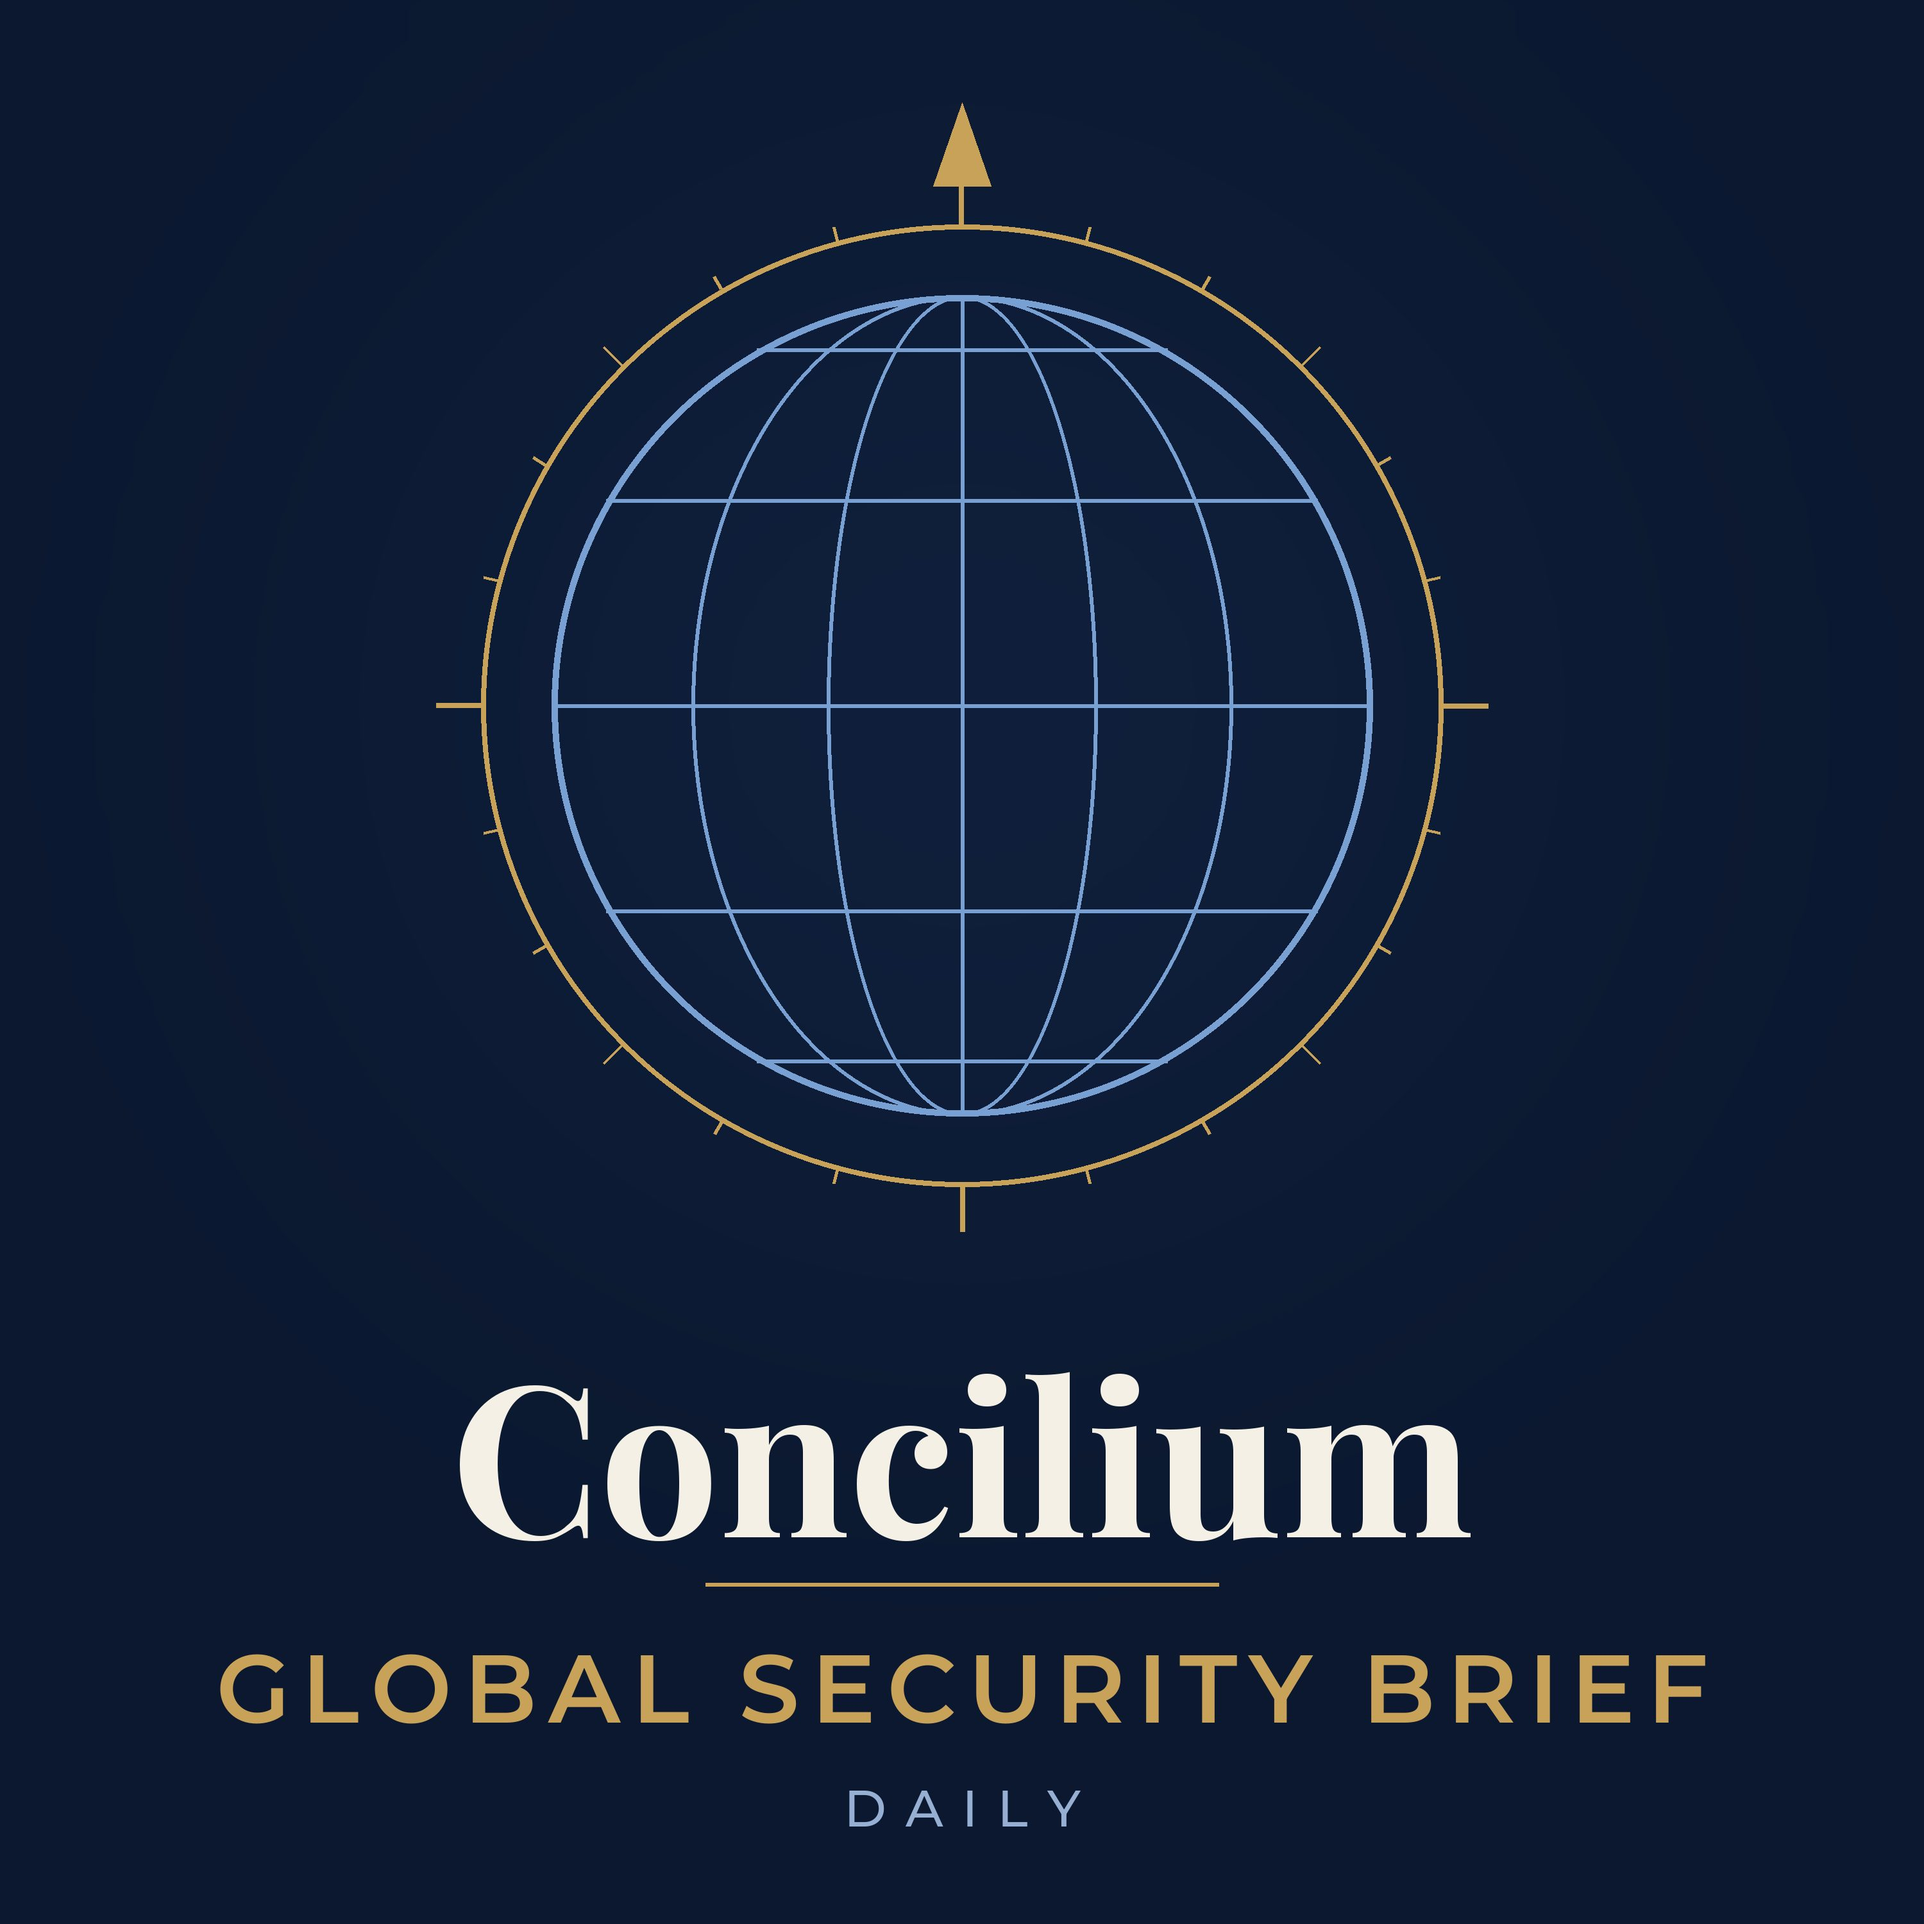
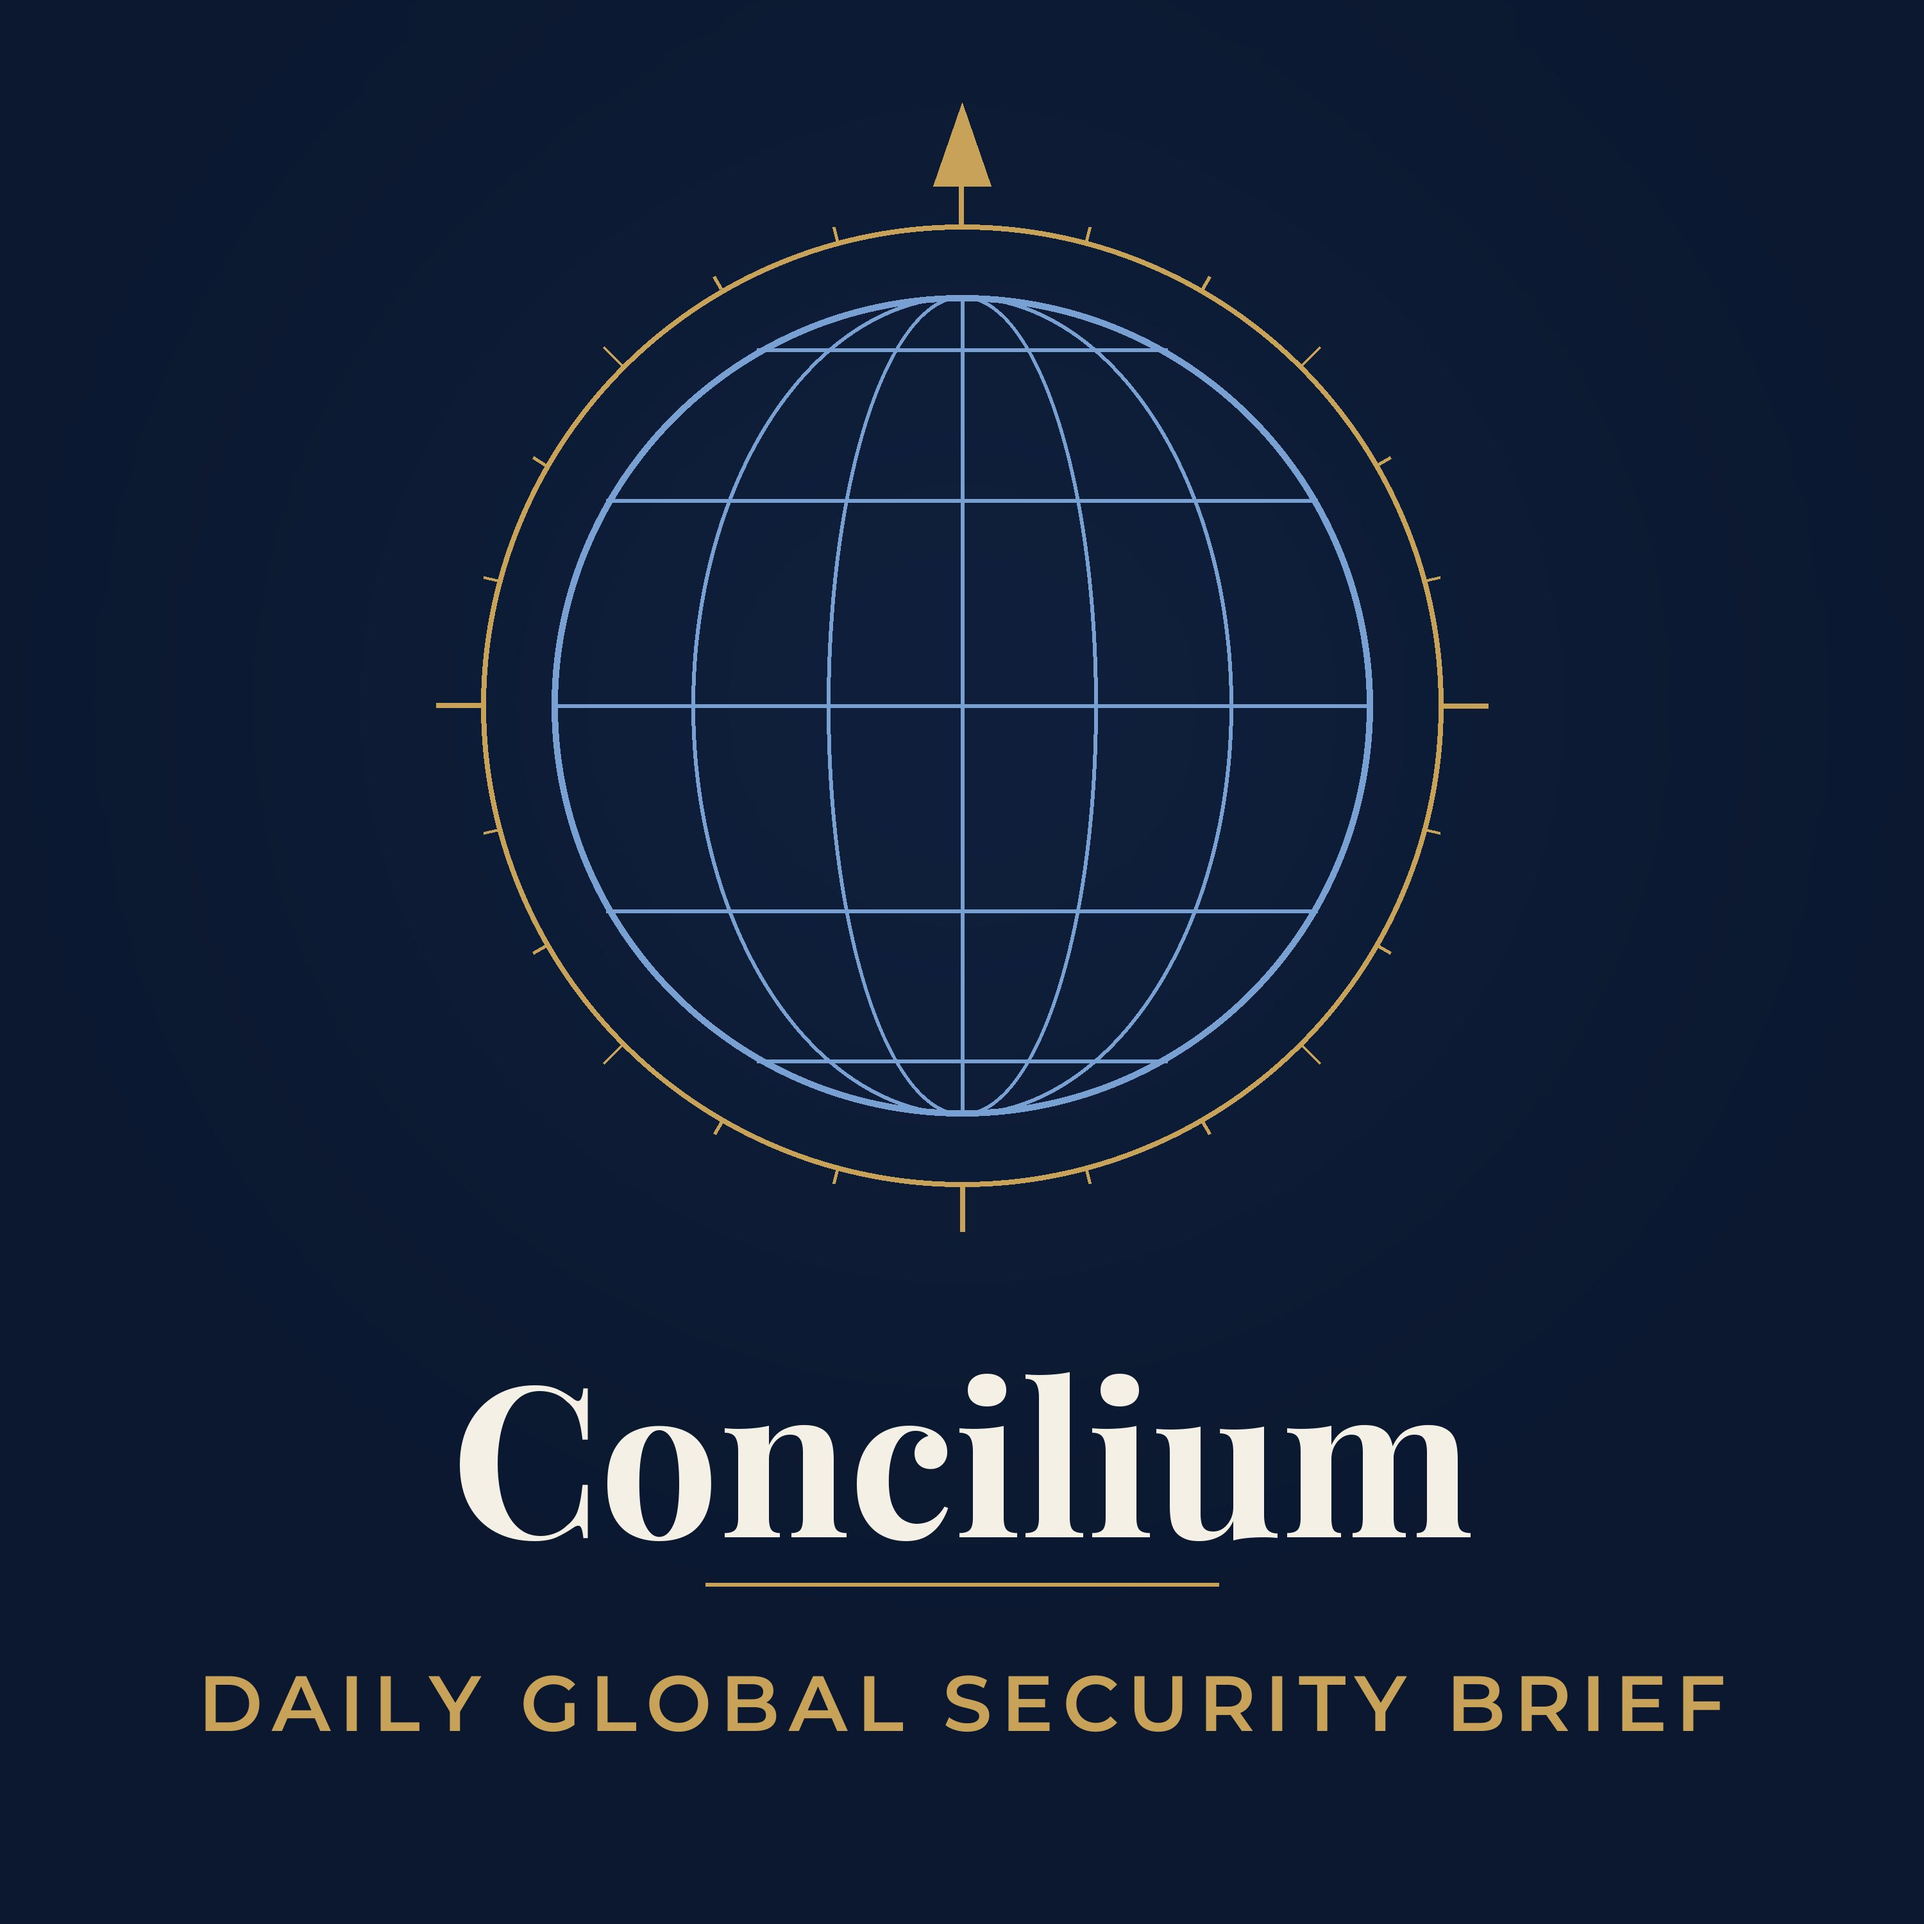
Rename show to Concilium Daily Global Security Brief; new cover

Changed region(s): [[0.093, 0.837, 0.899, 0.899], [0.434, 0.93, 0.527, 0.961]]

diff --git a/index.html b/index.html
@@ -1,12 +1,12 @@
 <!DOCTYPE html>
 <html lang="en"><head><meta charset="utf-8"><meta name="viewport" content="width=device-width, initial-scale=1">
-<title>Concilium Global Security Brief</title>
-<link rel="alternate" type="application/rss+xml" title="Concilium Global Security Brief" href="feed.xml">
+<title>Concilium Daily Global Security Brief</title>
+<link rel="alternate" type="application/rss+xml" title="Concilium Daily Global Security Brief" href="feed.xml">
 <style>body{font-family:system-ui,-apple-system,Segoe UI,Roboto,sans-serif;max-width:720px;margin:2rem auto;padding:0 1rem;color:#1b2333;line-height:1.55}
 img{width:240px;height:240px;border-radius:12px}h1{color:#0b1830}a{color:#1f4f8f}</style></head>
 <body>
-  <img src="cover.jpg" alt="Concilium Global Security Brief cover art">
-  <h1>Concilium Global Security Brief</h1>
+  <img src="cover.jpg" alt="Concilium Daily Global Security Brief cover art">
+  <h1>Concilium Daily Global Security Brief</h1>
   <p>An automated daily roundup of the past 24 hours of travel advisories, conflict, terrorism, kidnapping, cyber, health and disaster reporting from government sources and trusted security analysts. Curated by Concilium for organizations and travelers working overseas, with every item sourced. Questions? Reach Concilium at info@concilium.us.</p>
   <p><strong>Podcast RSS feed:</strong> <a href="feed.xml">https://gitdonenow.github.io/concilium-security-brief/feed.xml</a></p>
   <p>Contact: <a href="mailto:info@concilium.us">info@concilium.us</a></p>
